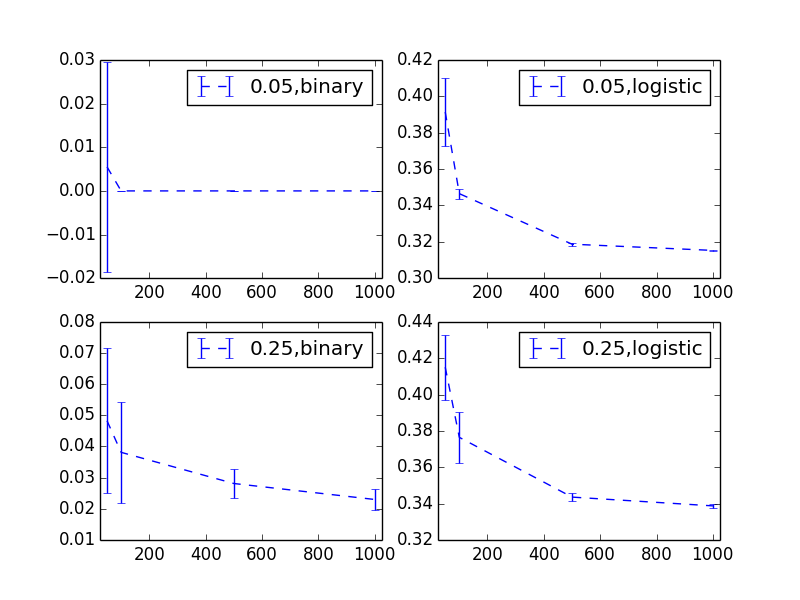
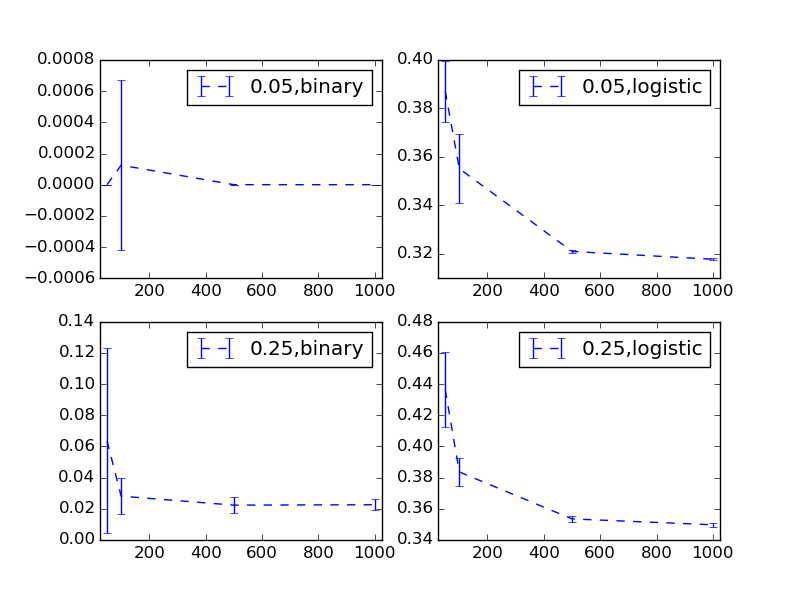
debug

diff --git a/cse250hw3.py b/cse250hw3.py
@@ -45,7 +45,7 @@ def cubeProjection(point):
 def ballProjection(point):
     # divide each entry of the point by the euclidean distance of the point if the point locates outside the unit ball
     if np.linalg.norm(point) > 1:
-        point / np.linalg.norm(point)
+        point = point / np.linalg.norm(point)
     return point 
     
 ### generate samples
@@ -112,9 +112,10 @@ def binaryLoss(w, x, y):
 def check(x, y, w, l):
     err = 0
     # for each test point, check whether it is classified correctly
-    for i in xrange(len(y)):
-        if l == 0: err += binaryLoss(w, x[i,:], y[i])
-        elif l == 1: err += logisticLoss(w, x[i,:], y[i])
+    if l == 0: 
+        for i in xrange(len(y)): err += binaryLoss(w, x[i,:], y[i])
+    elif l == 1: 
+        for i in xrange(len(y)): err += logisticLoss(w, x[i,:], y[i])
     # return error rate
     return err * 1.0 / len(y)
         
@@ -131,7 +132,7 @@ def sgd(x, y, scenario):
     for i in xrange(len(y)):
         g = deltaLoss(wt, x[i], y[i])
         if scenario == 1: wt = cubeProjection(np.subtract(wt, g.T / math.sqrt(i + 1)))
-        elif scenario == 2: wt = ballProjection(np.subtract(wt, g.T / math.sqrt(i + 1) / 2))
+        elif scenario == 2: wt = ballProjection(np.subtract(wt, g.T / math.sqrt(i + 1) / math.sqrt(2)))
         w[i + 1,:] = wt.T[:]
     return np.sum(w, axis = 0) / len(w)
 
